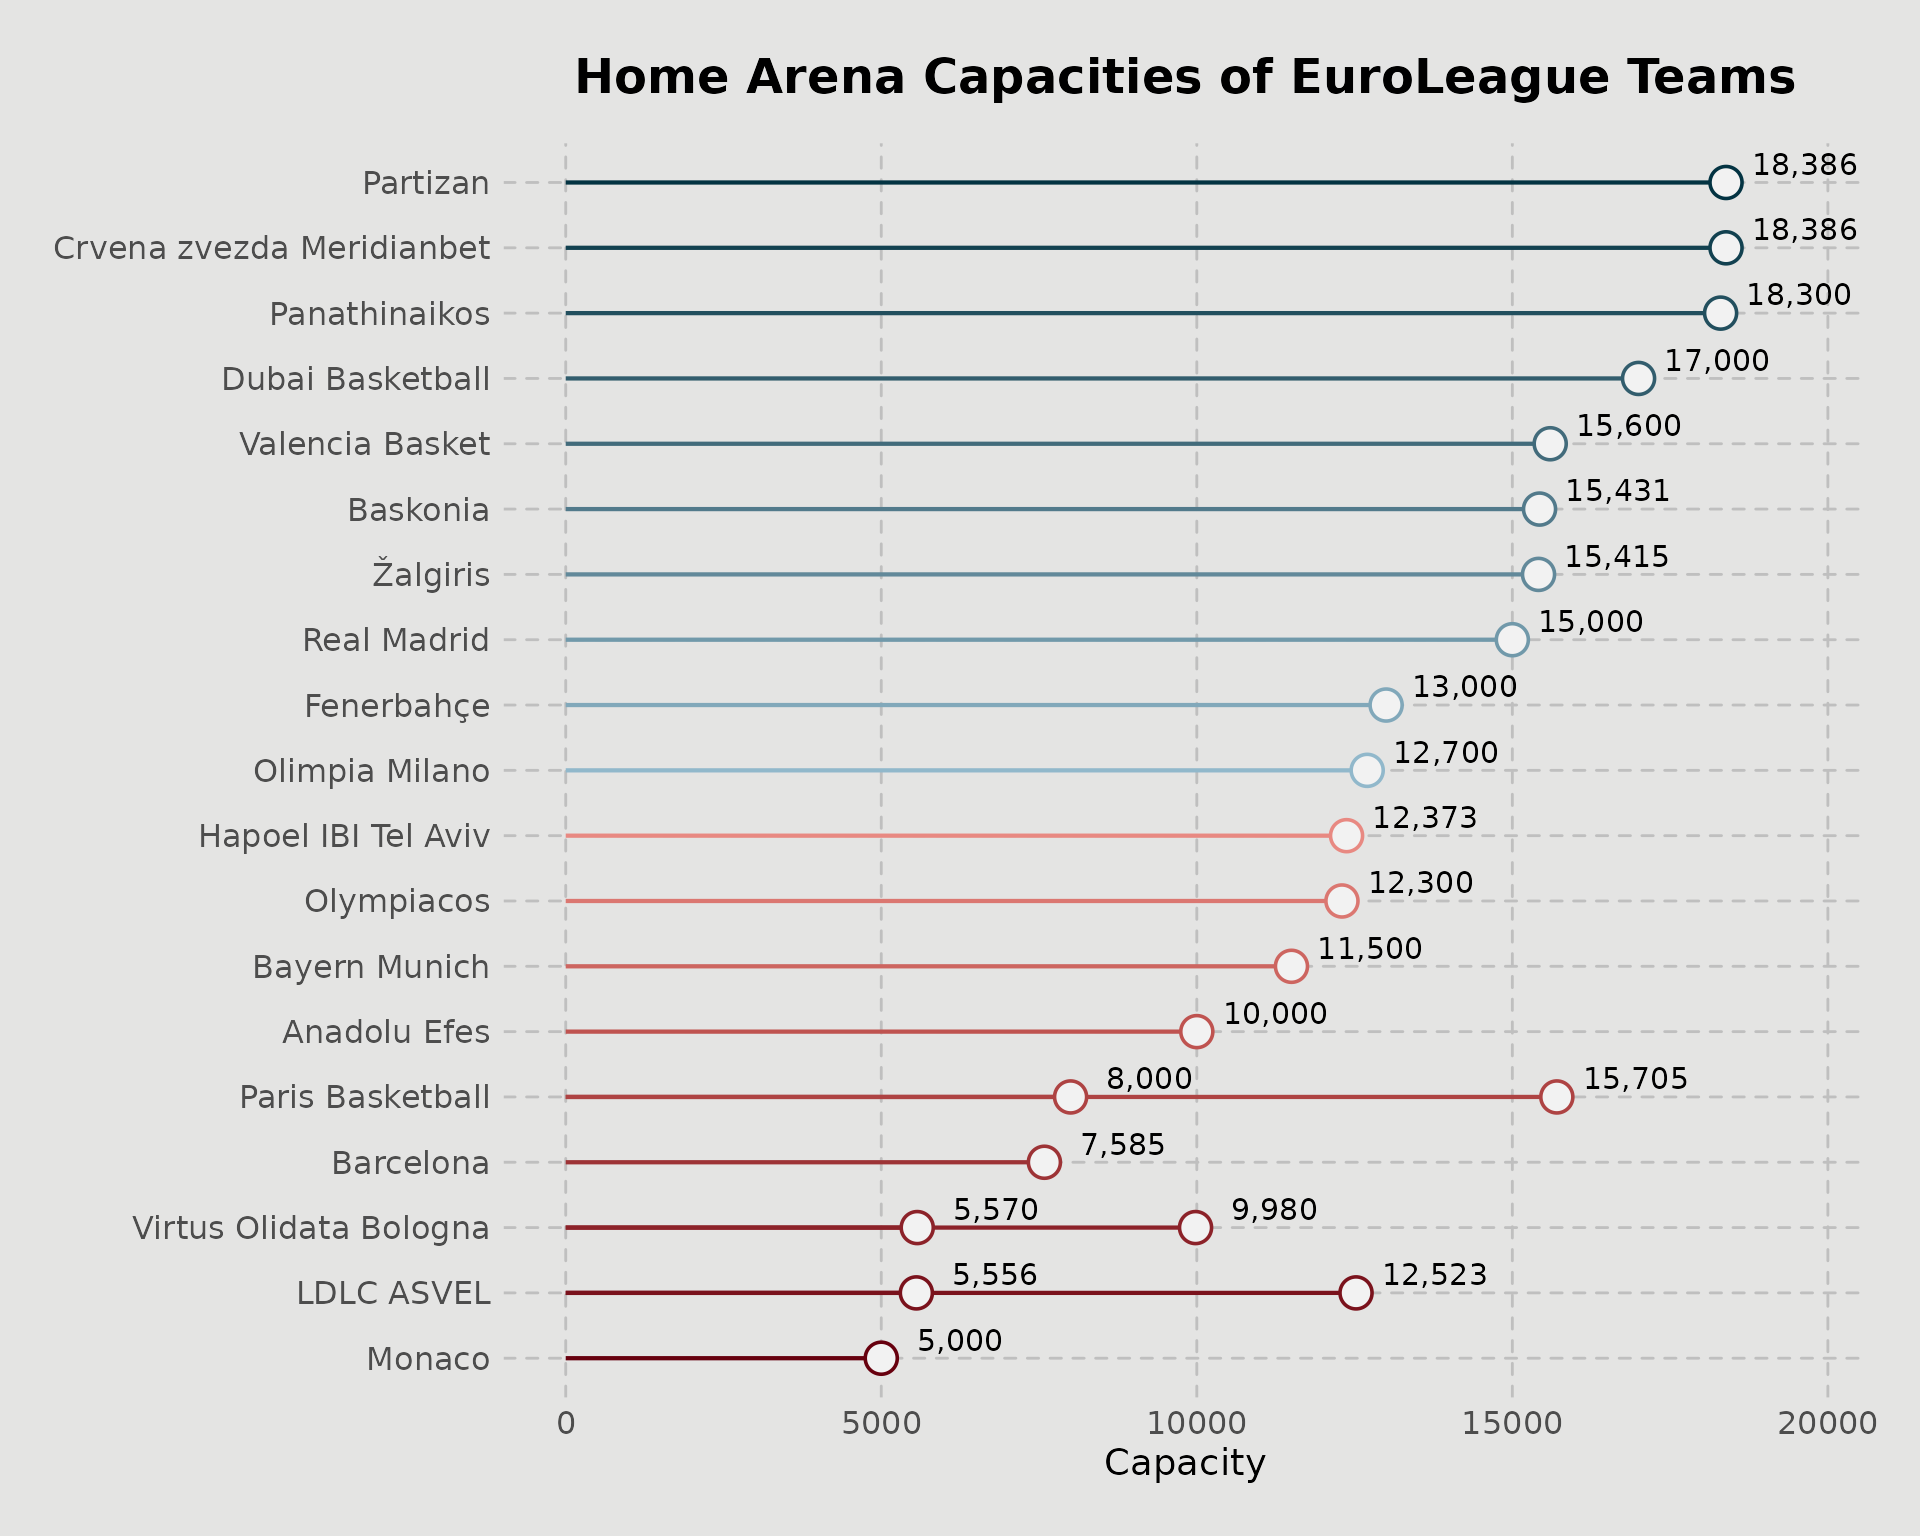
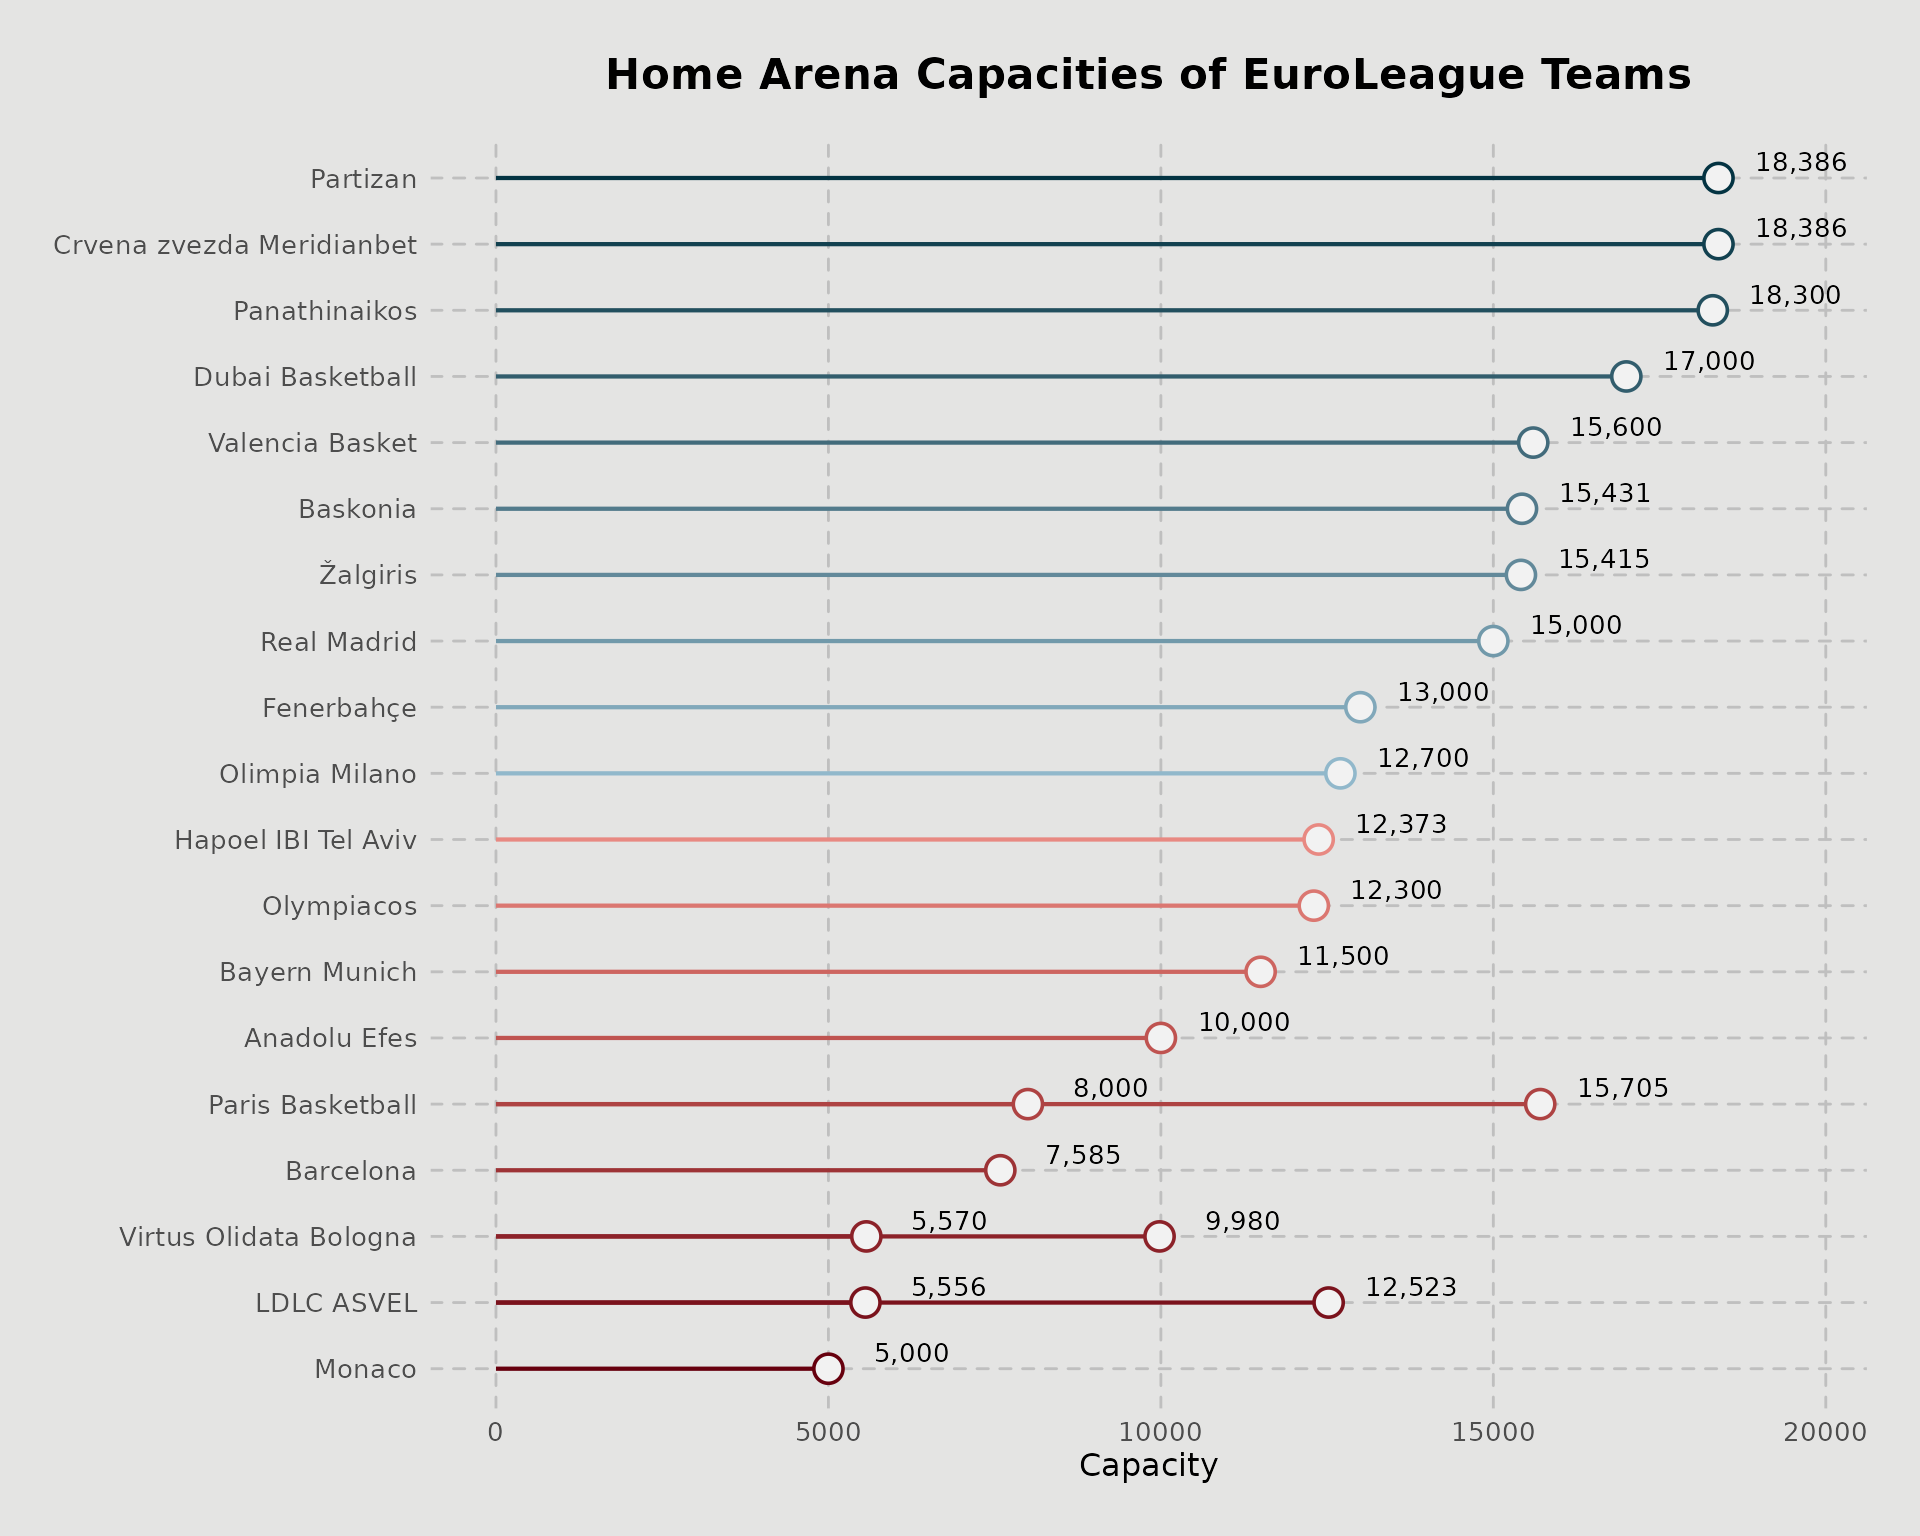
Deploying to gh-pages from @ natanast/EuroleagueBasketball@e6675c9d9f29c1cb15f0241c58c0e22b4c60052c 🚀

diff --git a/articles/euroleague-visualizations.html b/articles/euroleague-visualizations.html
@@ -207,14 +207,14 @@ championships.</p>
 <span>        <span class="fu"><a href="https://ggplot2.tidyverse.org/reference/aes.html" class="external-link">aes</a></span><span class="op">(</span>color <span class="op">=</span> <span class="va">Team</span><span class="op">)</span>,</span>
 <span>        shape <span class="op">=</span> <span class="fl">21</span>,</span>
 <span>        stroke <span class="op">=</span> <span class="fl">.95</span>,</span>
-<span>        size <span class="op">=</span> <span class="fl">5</span>,</span>
+<span>        size <span class="op">=</span> <span class="fl">4.5</span>,</span>
 <span>        fill <span class="op">=</span> <span class="st">"grey95"</span>,</span>
 <span>    <span class="op">)</span> <span class="op">+</span></span>
 <span></span>
 <span>    <span class="fu"><a href="https://ggplot2.tidyverse.org/reference/geom_text.html" class="external-link">geom_text</a></span><span class="op">(</span></span>
 <span>        <span class="fu"><a href="https://ggplot2.tidyverse.org/reference/aes.html" class="external-link">aes</a></span><span class="op">(</span>label <span class="op">=</span> <span class="fu">scales</span><span class="fu">::</span><span class="fu"><a href="https://scales.r-lib.org/reference/comma.html" class="external-link">comma</a></span><span class="op">(</span><span class="va">Capacity_num</span><span class="op">)</span><span class="op">)</span>,</span>
 <span>        nudge_x <span class="op">=</span> <span class="fl">1250</span>,</span>
-<span>        size <span class="op">=</span> <span class="fl">4</span>,</span>
+<span>        size <span class="op">=</span> <span class="fl">3.5</span>,</span>
 <span>        vjust <span class="op">=</span> <span class="op">-</span><span class="fl">0.35</span></span>
 <span>    <span class="op">)</span> <span class="op">+</span></span>
 <span></span>
@@ -235,16 +235,16 @@ championships.</p>
 <span></span>
 <span>        axis.title.y <span class="op">=</span> <span class="fu"><a href="https://ggplot2.tidyverse.org/reference/element.html" class="external-link">element_blank</a></span><span class="op">(</span><span class="op">)</span>,</span>
 <span></span>
-<span>        axis.title.x <span class="op">=</span> <span class="fu"><a href="https://ggplot2.tidyverse.org/reference/element.html" class="external-link">element_text</a></span><span class="op">(</span>size <span class="op">=</span> <span class="fl">14</span><span class="op">)</span>,</span>
+<span>        axis.title.x <span class="op">=</span> <span class="fu"><a href="https://ggplot2.tidyverse.org/reference/element.html" class="external-link">element_text</a></span><span class="op">(</span>size <span class="op">=</span> <span class="fl">12</span><span class="op">)</span>,</span>
 <span></span>
-<span>        axis.text <span class="op">=</span> <span class="fu"><a href="https://ggplot2.tidyverse.org/reference/element.html" class="external-link">element_text</a></span><span class="op">(</span>size <span class="op">=</span> <span class="fl">12</span><span class="op">)</span>,</span>
+<span>        axis.text <span class="op">=</span> <span class="fu"><a href="https://ggplot2.tidyverse.org/reference/element.html" class="external-link">element_text</a></span><span class="op">(</span>size <span class="op">=</span> <span class="fl">10</span><span class="op">)</span>,</span>
 <span></span>
 <span>        legend.position <span class="op">=</span> <span class="st">"none"</span>,</span>
 <span></span>
 <span>        panel.grid.major <span class="op">=</span> <span class="fu"><a href="https://ggplot2.tidyverse.org/reference/element.html" class="external-link">element_line</a></span><span class="op">(</span>color <span class="op">=</span> <span class="st">"grey75"</span>, linetype <span class="op">=</span> <span class="st">"dashed"</span>, lineend <span class="op">=</span> <span class="st">"round"</span><span class="op">)</span>,</span>
 <span>        panel.grid.minor <span class="op">=</span> <span class="fu"><a href="https://ggplot2.tidyverse.org/reference/element.html" class="external-link">element_blank</a></span><span class="op">(</span><span class="op">)</span>,</span>
 <span></span>
-<span>        plot.title <span class="op">=</span> <span class="fu"><a href="https://wilkelab.org/ggtext/reference/element_markdown.html" class="external-link">element_markdown</a></span><span class="op">(</span>size <span class="op">=</span> <span class="fl">18</span>, face <span class="op">=</span> <span class="st">"bold"</span>, hjust <span class="op">=</span> <span class="fl">0.5</span>, margin <span class="op">=</span> <span class="fu"><a href="https://ggplot2.tidyverse.org/reference/element.html" class="external-link">margin</a></span><span class="op">(</span>t <span class="op">=</span> <span class="fl">2</span>, b <span class="op">=</span> <span class="fl">15</span><span class="op">)</span><span class="op">)</span>,</span>
+<span>        plot.title <span class="op">=</span> <span class="fu"><a href="https://wilkelab.org/ggtext/reference/element_markdown.html" class="external-link">element_markdown</a></span><span class="op">(</span>size <span class="op">=</span> <span class="fl">16</span>, face <span class="op">=</span> <span class="st">"bold"</span>, hjust <span class="op">=</span> <span class="fl">0.5</span>, margin <span class="op">=</span> <span class="fu"><a href="https://ggplot2.tidyverse.org/reference/element.html" class="external-link">margin</a></span><span class="op">(</span>t <span class="op">=</span> <span class="fl">2</span>, b <span class="op">=</span> <span class="fl">15</span><span class="op">)</span><span class="op">)</span>,</span>
 <span></span>
 <span>        plot.margin <span class="op">=</span> <span class="fu"><a href="https://ggplot2.tidyverse.org/reference/element.html" class="external-link">margin</a></span><span class="op">(</span><span class="fl">20</span>, <span class="fl">20</span>, <span class="fl">20</span>, <span class="fl">20</span><span class="op">)</span>,</span>
 <span></span>
